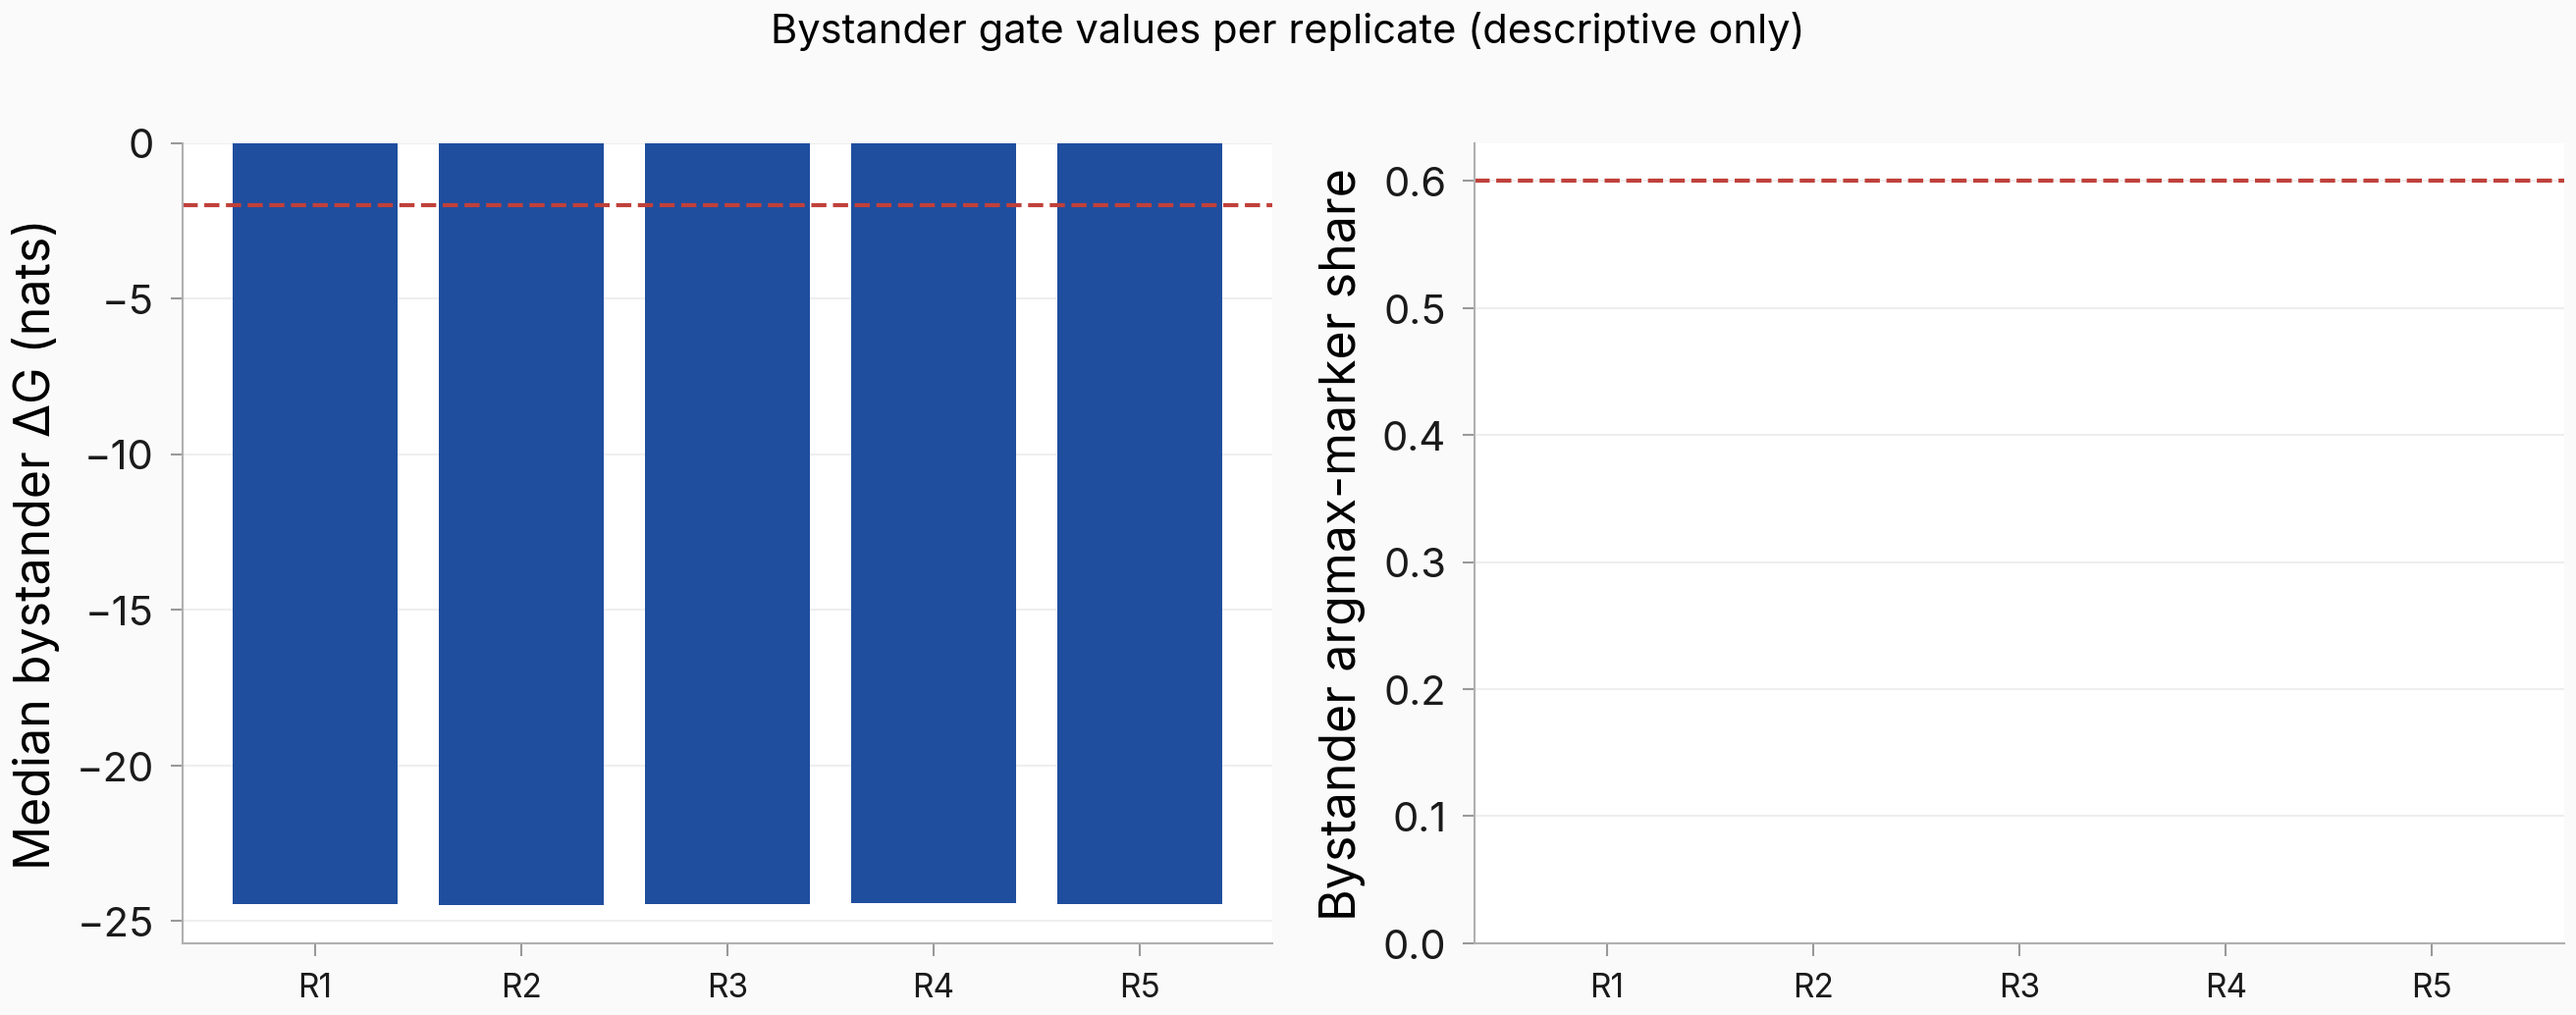
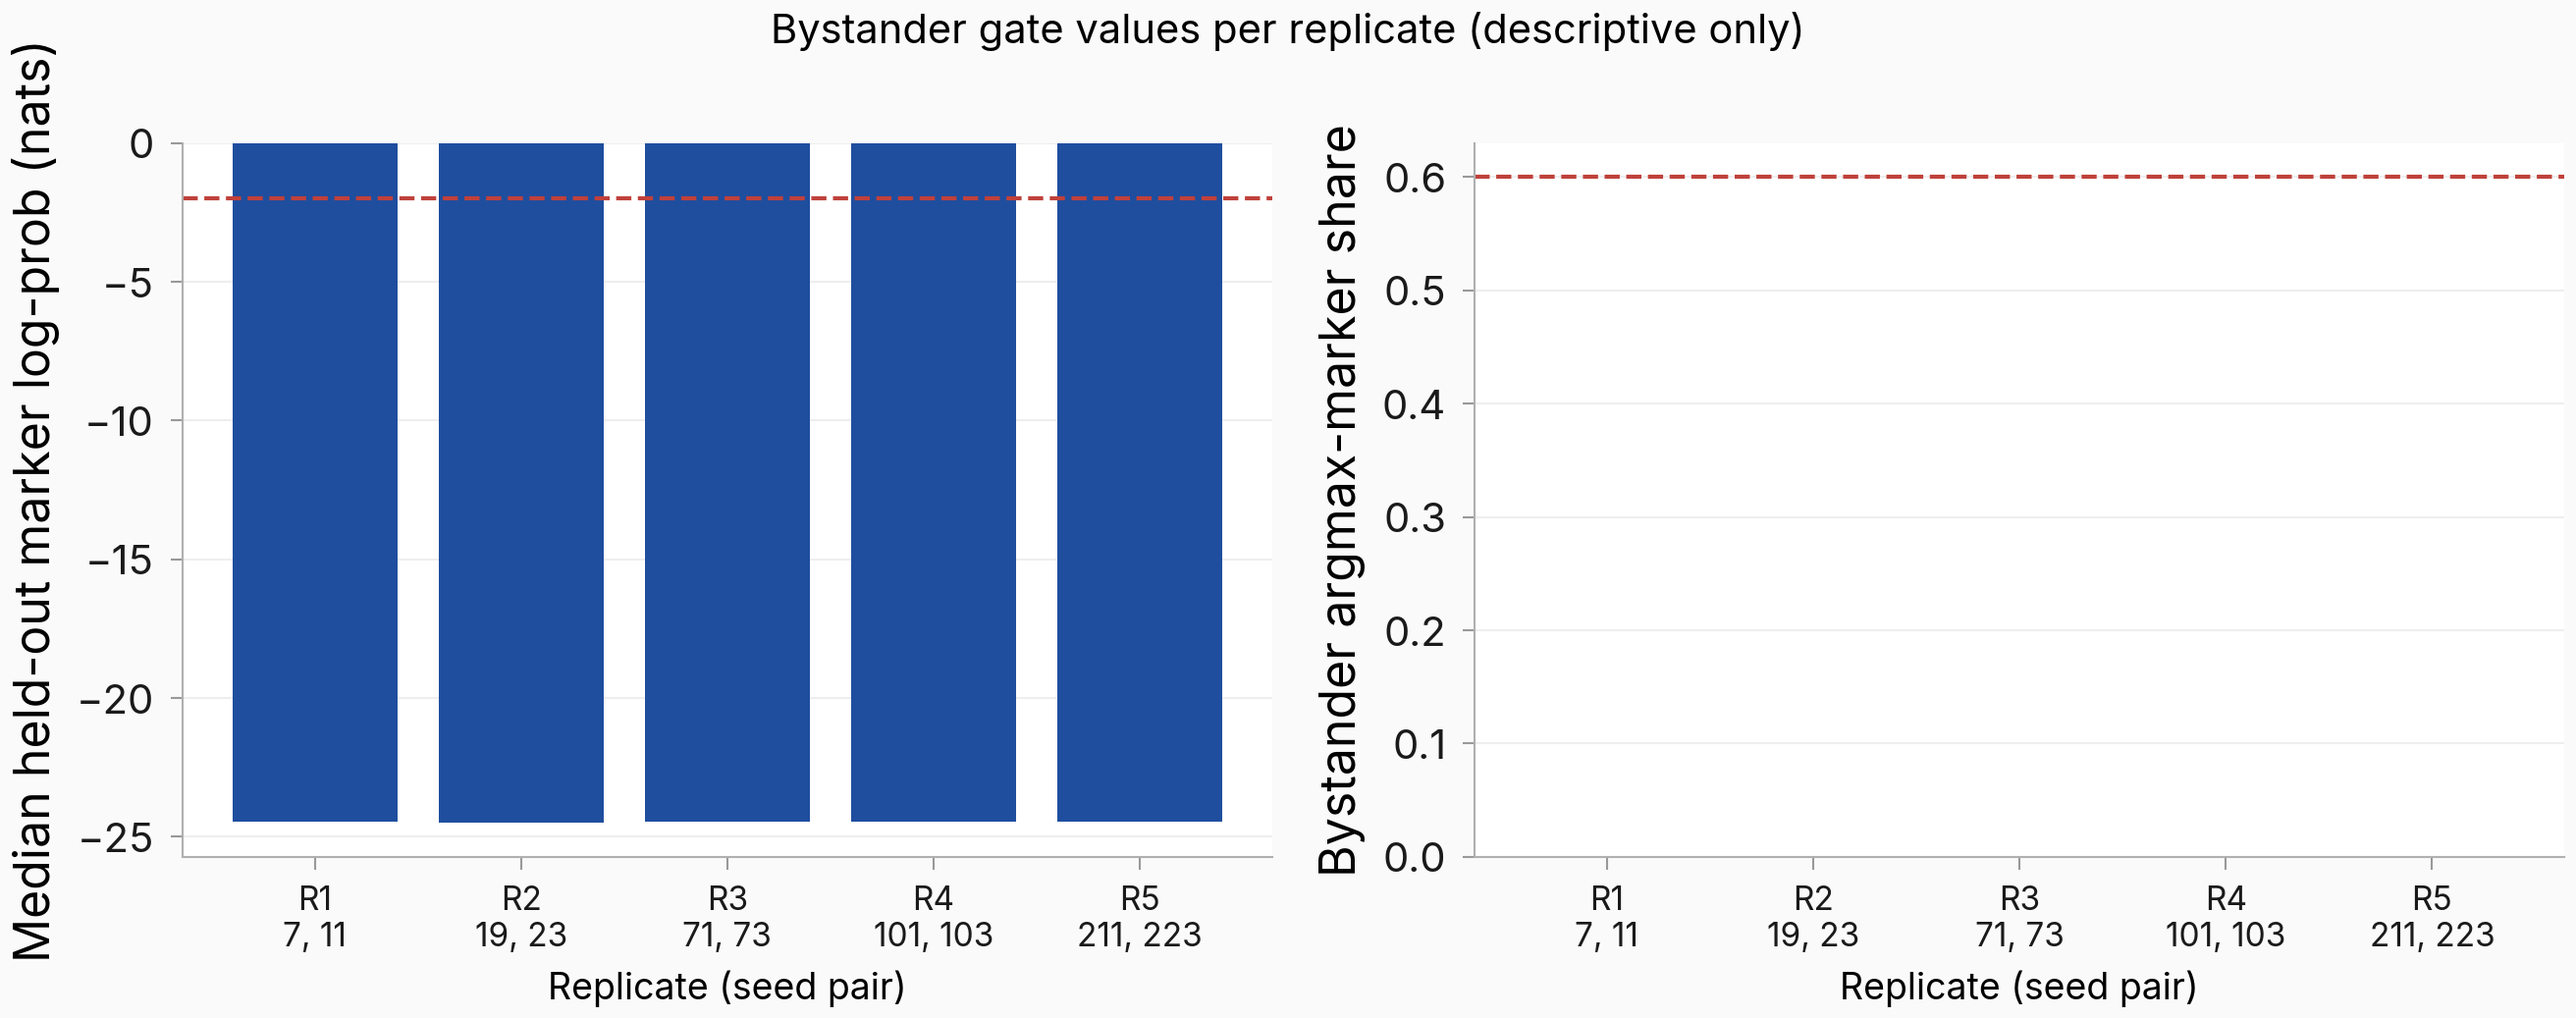
task #555: round-2 figure label fixes — bystander panel ylabel (marker log-prob, not ΔG) + seed-pair tick labels; pooled_vs_replicates unclipped xlabel

diff --git a/scripts/i555_make_figures.py b/scripts/i555_make_figures.py
@@ -283,7 +283,10 @@ def fig_pooled_vs_replicates(analysis: dict, out_dir: Path) -> None:
     ax.axvline(0.0, color="0.4", linewidth=0.8)
     ax.set_yticks(range(len(preds)))
     ax.set_yticklabels([PREDICTOR_LABELS[p] for p in preds], fontsize=9)
-    ax.set_xlabel("Partial Spearman ρ — circles: per-replicate; diamond: pooled (descriptive)")
+    ax.set_xlabel("Partial Spearman ρ")
+    ax.set_title(
+        "Per-replicate ρ (circles) vs pooled 2,160-row descriptive fit (diamond)", fontsize=10
+    )
     fig.tight_layout()
     savefig_paper(fig, "pooled_vs_replicates", dir=out_dir)
     plt.close(fig)
@@ -329,15 +332,23 @@ def fig_bystander_gate(analysis: dict, out_dir: Path) -> None:
         x, [m if m is not None else np.nan for m in med], color=paper_palette_role("primary")
     )
     axes[0].axhline(-2.0, color=paper_palette_role("accent"), linestyle="--", linewidth=1.0)
-    axes[0].set_ylabel("Median bystander ΔG (nats)")
+    # NOTE: the plotted quantity is the median held-out marker log-prob on the
+    # TRAINED side (absolute, ~ -24 nats), NOT a trained-minus-base delta.
+    axes[0].set_ylabel("Median held-out marker log-prob (nats)")
     axes[1].bar(
         x, [s if s is not None else np.nan for s in share], color=paper_palette_role("primary")
     )
     axes[1].axhline(0.60, color=paper_palette_role("accent"), linestyle="--", linewidth=1.0)
     axes[1].set_ylabel("Bystander argmax-marker share")
+    # Reader-facing replicate labels ("R1\n7, 11"), not bare R1..R5.
+    short_labels = []
+    for rep_key in reps:
+        head, seed_part = rep_key.split("_seeds", 1)
+        short_labels.append(f"{head}\n{seed_part.replace('_', ', ')}")
     for ax in axes:
         ax.set_xticks(x)
-        ax.set_xticklabels([f"R{i + 1}" for i in range(len(reps))], fontsize=8)
+        ax.set_xticklabels(short_labels, fontsize=8)
+        ax.set_xlabel("Replicate (seed pair)", fontsize=9)
     fig.suptitle("Bystander gate values per replicate (descriptive only)", fontsize=10)
     fig.tight_layout()
     savefig_paper(fig, "bystander_gate_panel", dir=out_dir)
